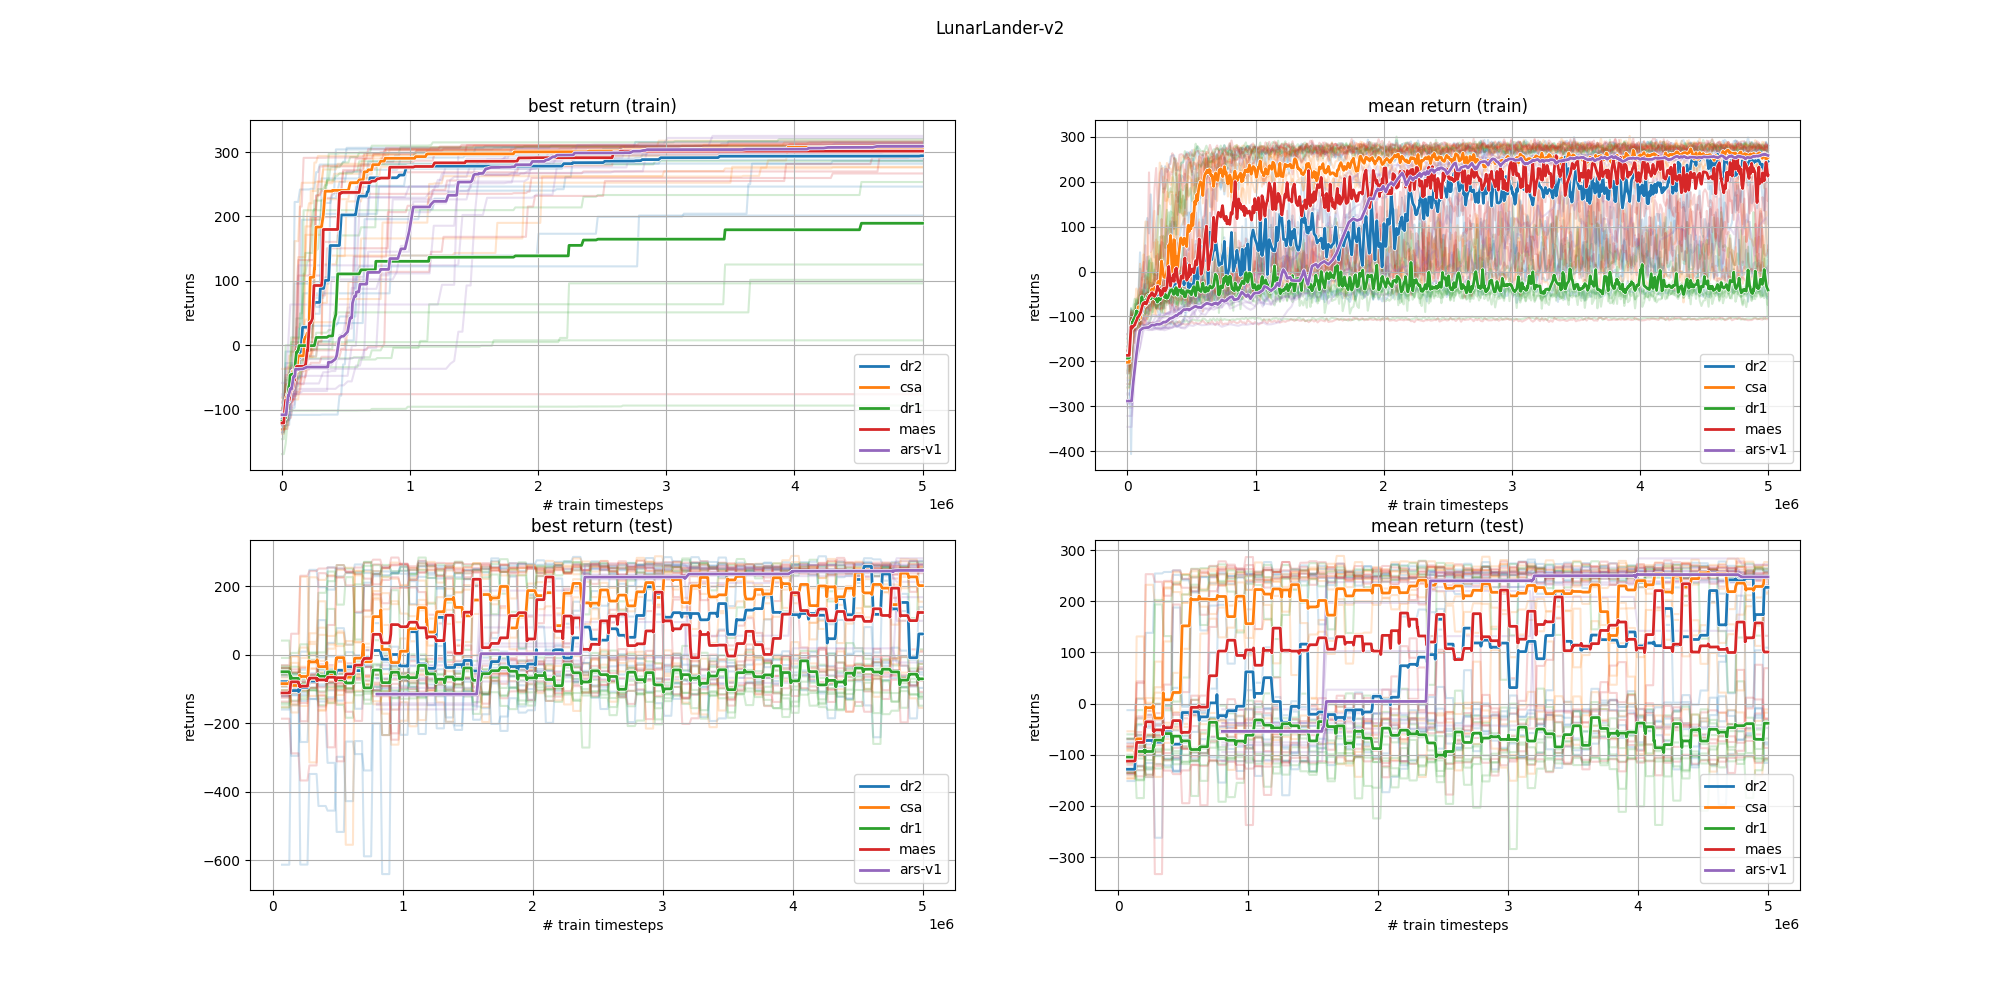
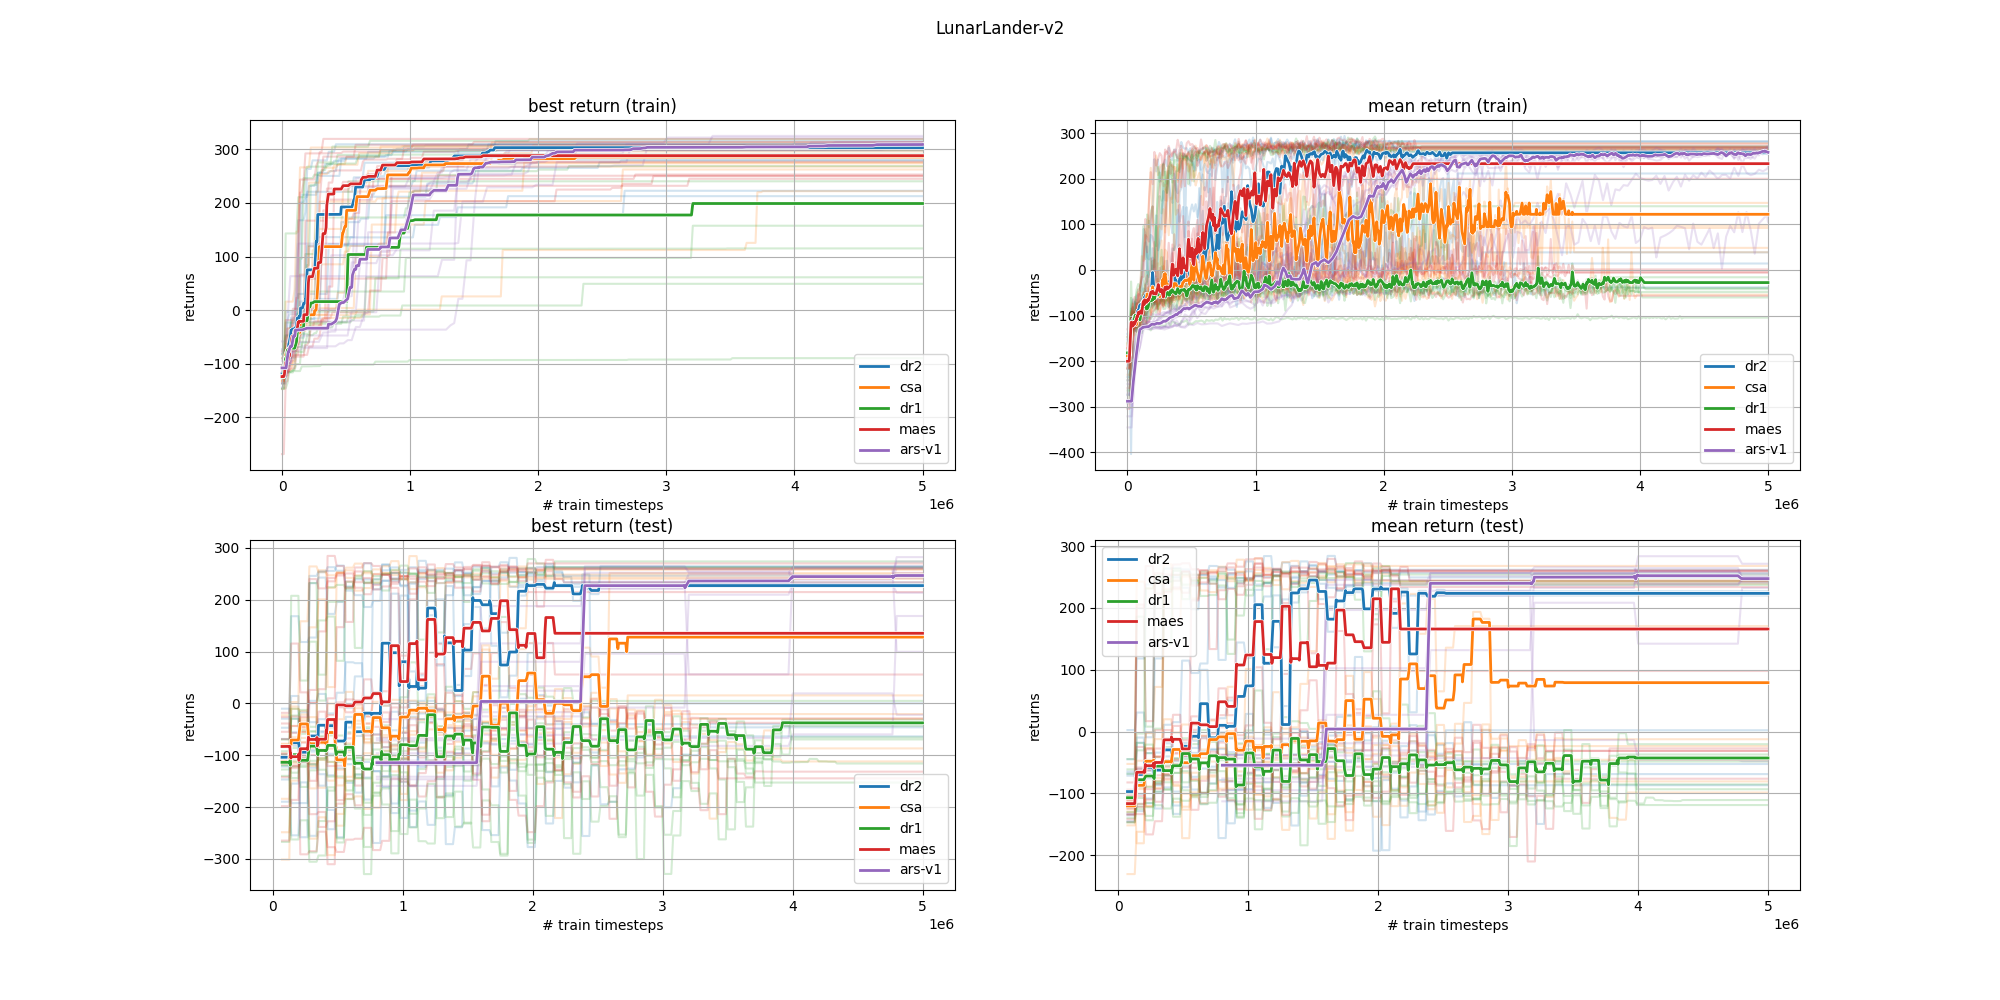
0.01

diff --git a/main.py b/main.py
@@ -142,7 +142,7 @@ if __name__ == "__main__":
         no_bias=not args.with_bias,
         single_episode_per_eval=args.eval_total_timesteps,
         n_test_episodes=args.n_test_episodes,
-        store_video=args.store_video
+        store_video=args.store_videos
     )
     plot = True
     uh = ''

diff --git a/run_all.py b/run_all.py
@@ -19,7 +19,7 @@ for env in ["LunarLander-v2"]:
                 str(seed),
                 "--eval_total_timesteps",
                 "--sigma0",
-                "0.001"                
+                "0.01"                
             ], start_new_session=True)
             time.sleep(1)
 

diff --git a/plot.py b/plot.py
@@ -114,5 +114,5 @@ if __name__ == "__main__":
     for env in envs:
         if env == "old": continue
         env_dir = os.path.join("data", env)
-        plot_x_final(env_dir)
+#        plot_x_final(env_dir)
         plot_all_strats_for_env(env_dir)
